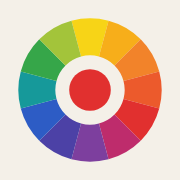
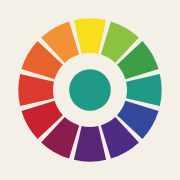
Rehace la rueda como réplica de la rueda Trabi
Disco de color con pestañas que gira bajo un disco blanco con ventanas
(tinte, tono, matiz), etiquetas de armonía y figuras grises en el centro.
Paleta y orden de colores tomados de la rueda física.

Claude-Session: https://claude.ai/code/session_01FmqHNh6WeZmWFELV5fdJzU

diff --git a/index.html b/index.html
@@ -94,22 +94,27 @@ main{max-width:1240px;margin:0 auto;padding:4px clamp(16px,4vw,40px) 40px}
 .wheel-stage{display:flex;flex-direction:column;align-items:center;gap:14px;text-align:center}
 #wheel{width:min(100%,560px);aspect-ratio:1;touch-action:none;cursor:grab;user-select:none;-webkit-user-select:none;display:block}
 #wheel.dragging{cursor:grabbing}
-#wheel:focus-visible{outline:none}
+#wheel:focus,#wheel:focus-visible{outline:none}
 #wheel .focus-ring{fill:none;stroke:transparent;stroke-width:2.5}
 #wheel:focus-visible .focus-ring{stroke:var(--ink)}
 .seg{cursor:pointer}
-.seg path{stroke:var(--bg);stroke-width:2.5;transition:opacity .35s ease}
-.dial-base{fill:var(--card);stroke:var(--line);stroke-width:1.5}
-#dial{transition:transform .55s cubic-bezier(.2,.8,.2,1)}
-#wheel.dragging #dial{transition:none}
-#dial.spin{transition:transform 1.5s cubic-bezier(.12,.85,.18,1)}
-.shape{fill:rgba(31,29,26,.06);stroke:var(--ink);stroke-width:1.6;stroke-linejoin:round}
-.shape.ring{fill:none;stroke-dasharray:3 6;stroke-linecap:round}
-.spoke{stroke:var(--ink);stroke-width:1.4;stroke-dasharray:2 6;stroke-linecap:round;opacity:.5}
-.marker{fill:none;stroke:#fff;stroke-width:6}
-.marker-in{fill:none;stroke:var(--ink);stroke-width:1.6}
+.disc-base{fill:#FDFCF8;stroke:#E3DCCF;stroke-width:1.2}
+#colorDisc{transition:transform .6s cubic-bezier(.2,.8,.2,1)}
+#wheel.dragging #colorDisc{transition:none}
+#colorDisc.spin{transition:transform 1.5s cubic-bezier(.12,.85,.18,1)}
+.ctab{stroke:rgba(0,0,0,.08);stroke-width:1;stroke-linejoin:round}
+.tab-label{font-family:"Inter",system-ui,sans-serif;font-weight:700;letter-spacing:.03em;pointer-events:none}
+.top-disc{fill:#FDFCF8;stroke:#FDFCF8;stroke-width:3;stroke-linejoin:round;fill-rule:evenodd}
+.win-edge{fill:none;stroke:rgba(0,0,0,.18);stroke-width:1;pointer-events:none}
+.win-sep{fill:none;stroke:#2A2826;stroke-width:1.6;pointer-events:none}
+.harm-label{font-family:"Inter",system-ui,sans-serif;font-weight:700;font-size:9.5px;letter-spacing:.07em;fill:#2A2826;pointer-events:none}
+.harm-label .soft{font-weight:500;letter-spacing:.02em}
+.center-base{fill:#fff;stroke:#2A2826;stroke-width:2}
+.tmpl{fill:none;stroke:#8f8f8c;stroke-width:1;stroke-dasharray:3 3;opacity:.4}
+.shape-active{fill:url(#shapeGrad);stroke:#6E6D6A;stroke-width:1;stroke-linejoin:round}
+.arrow{stroke:#1F1D1A;stroke-width:2.2;fill:none}
+.pin{fill:#D2D1CD;stroke:#8A8985;stroke-width:1.2}
 .pointer{fill:var(--ink)}
-#keyDot{stroke:#fff;stroke-width:5;transition:fill .3s}
 .key-info{display:grid;gap:2px}
 .key-name{font-family:"Fraunces",Georgia,serif;font-size:clamp(1.6rem,3vw,2.1rem);line-height:1.1}
 .key-hex{font-variant-numeric:tabular-nums;color:var(--muted);font-size:.9rem;letter-spacing:.04em}
@@ -276,14 +281,25 @@ footer a{color:inherit}
   <section id="view-rueda" class="view" role="tabpanel" aria-labelledby="tab-rueda" tabindex="-1">
     <div class="wheel-layout">
       <div class="wheel-stage">
-        <svg id="wheel" viewBox="-274 -274 548 548" role="slider" tabindex="0"
+        <svg id="wheel" viewBox="-282 -282 564 564" role="slider" tabindex="0"
              aria-label="Rueda cromática. Usá las flechas para girarla."
              aria-valuemin="0" aria-valuemax="359" aria-valuenow="0" aria-valuetext="Amarillo">
-          <circle class="focus-ring" r="268"/>
-          <g id="segments"></g>
-          <circle class="dial-base" r="86"/>
-          <g id="dial"></g>
-          <circle id="keyDot" r="24"/>
+          <defs>
+            <linearGradient id="shapeGrad" x1="0" x2="1" y1="0" y2="0">
+              <stop offset="0" stop-color="#E6E5E2"/><stop offset=".5" stop-color="#BDBCB8"/>
+              <stop offset=".5" stop-color="#9E9D99"/><stop offset="1" stop-color="#CDCCC8"/>
+            </linearGradient>
+            <marker id="arrowHead" viewBox="0 0 10 10" refX="8" refY="5" markerWidth="5" markerHeight="5" orient="auto-start-reverse">
+              <path d="M0 0L10 5L0 10Z" fill="#1F1D1A"/>
+            </marker>
+            <filter id="discShadow" x="-10%" y="-10%" width="120%" height="120%">
+              <feDropShadow dx="0" dy="6" stdDeviation="8" flood-color="#5a4a30" flood-opacity=".14"/>
+            </filter>
+          </defs>
+          <circle class="focus-ring" r="276"/>
+          <circle class="disc-base" r="268" filter="url(#discShadow)"/>
+          <g id="colorDisc"></g>
+          <g id="overlay"></g>
         </svg>
 
         <div class="key-info" aria-live="polite">
@@ -409,8 +425,8 @@ footer a{color:inherit}
 'use strict';
 
 /* ---------- Datos ---------- */
-const ANCHORS = ['#F7D417','#F7AE1A','#F2832A','#EC5A2C','#E1302F','#BE2C6C','#7D3F9E','#4C41A6','#2D5CC5','#16999A','#36A649','#A3C43A'];
-const NAMES = ['Amarillo','Amarillo-naranja','Naranja','Rojo-naranja','Rojo','Rojo-violeta','Violeta','Azul-violeta','Azul','Azul-verde','Verde','Amarillo-verde'];
+const ANCHORS = ['#F7DF1E','#8CC23F','#3D9E48','#1F9A87','#34489C','#4E2C85','#5B2577','#8A1D4E','#C9222F','#DB3A2C','#E8622E','#F29234'];
+const NAMES = ['Amarillo','Amarillo-verde','Verde','Azul-verde','Azul','Azul-violeta','Violeta','Rojo-violeta','Rojo','Rojo-naranja','Naranja','Amarillo-naranja'];
 
 const HARMONIES = {
   complementarios: { label:'Complementarios', offsets:[0,6], desc:'Dos colores opuestos en la rueda. Es el contraste máximo: uno hace brillar al otro. Funciona mejor con uno de protagonista y el otro para acentos.' },
@@ -442,7 +458,7 @@ const store = {
   set(k, v){ try { localStorage.setItem(k, JSON.stringify(v)); } catch(e){} }
 };
 
-const state = { angle:120, harmony:'complementarios', variant:'puro', libre:false, sound:store.get('rc-sound', true) };
+const state = { angle:90, harmony:'complementarios', variant:'puro', libre:false, sound:store.get('rc-sound', true) };
 const reduced = window.matchMedia && window.matchMedia('(prefers-reduced-motion: reduce)').matches;
 const $ = s => document.querySelector(s);
 const mod = (n, m) => ((n % m) + m) % m;
@@ -482,9 +498,9 @@ function hueAt(deg){
 }
 const nameAt = deg => NAMES[Math.round(mod(deg,360)/30) % 12];
 function variantHex(hex, v){
-  if (v === 'tinte') return mixHex(hex, '#FFFFFF', .45);
-  if (v === 'tono') return mixHex(hex, '#8A8A8A', .45);
-  if (v === 'sombra') return mixHex(hex, '#000000', .42);
+  if (v === 'tinte') return mixHex(hex, '#FFFFFF', .5);
+  if (v === 'tono') return mixHex(hex, '#9A9A96', .55);
+  if (v === 'sombra') return mixHex(hex, '#000000', .36);
   return hex;
 }
 const relLum = hex => { const [r,g,b] = hexToRgb(hex).map(toLin); return 0.2126*r + 0.7152*g + 0.0722*b; };
@@ -511,7 +527,7 @@ function describe(hex){
   const deg = nearestHueAngle(hex);
   const idx = Math.round(deg/30) % 12;
   const pure = hexToLab(ANCHORS[idx]);
-  if ([1,2,3].includes(idx) && L < pure[0] - 0.12) return C < 0.08 ? 'Marrón apagado' : 'Marrón';
+  if ([9,10,11].includes(idx) && L < pure[0] - 0.12) return C < 0.08 ? 'Marrón apagado' : 'Marrón';
   let n = NAMES[idx];
   if (L > pure[0] + 0.08) n += ' claro';
   else if (L < pure[0] - 0.08) n += ' oscuro';
@@ -589,37 +605,80 @@ function arc(r1, r2, a1, a2){
   const [x1,y1] = pt(r2,a1), [x2,y2] = pt(r2,a2), [x3,y3] = pt(r1,a2), [x4,y4] = pt(r1,a1);
   return `M${x1} ${y1}A${r2} ${r2} 0 0 1 ${x2} ${y2}L${x3} ${y3}A${r1} ${r1} 0 0 0 ${x4} ${y4}Z`;
 }
-const RINGS = [['puro',206,254],['tinte',166,202],['tono',128,162],['sombra',92,124]];
-const wheel = $('#wheel'), segLayer = $('#segments'), dial = $('#dial'), keyDot = $('#keyDot');
-const segPaths = [];
-for (let i = 0; i < 12; i++){
-  const g = svgEl('g', { class:'seg', 'data-i':i }, segLayer);
-  const rings = {};
-  RINGS.forEach(([k, r1, r2]) => {
-    rings[k] = svgEl('path', { d:arc(r1, r2, i*30-15, i*30+15), fill:variantHex(ANCHORS[i], k) }, g);
-  });
-  segPaths.push(rings);
+const wheel = $('#wheel'), colorDisc = $('#colorDisc'), overlay = $('#overlay');
+const DISC_BG = '#FDFCF8';
+// Disco de color (gira): pestañas con el nombre y, debajo, tinte / tono / matiz de cada color
+(function buildColorDisc(){
+  const defs = wheel.querySelector('defs');
+  for (let i = 0; i < 12; i++){
+    const a = i*30, g = svgEl('g', { class:'seg', 'data-i':i }, colorDisc);
+    svgEl('path', { d:arc(168, 204, a-15, a+15), fill:variantHex(ANCHORS[i], 'tinte') }, g);
+    svgEl('path', { d:arc(133, 168, a-15, a+15), fill:variantHex(ANCHORS[i], 'tono') }, g);
+    svgEl('path', { d:arc(96, 133, a-15, a+15), fill:variantHex(ANCHORS[i], 'sombra') }, g);
+    svgEl('path', { d:arc(229, 263, a-13.6, a+13.6), fill:ANCHORS[i], class:'ctab' }, g);
+    const [x1,y1] = pt(242, a-14), [x2,y2] = pt(242, a+14);
+    svgEl('path', { id:'tabArc'+i, d:`M${x1} ${y1}A242 242 0 0 1 ${x2} ${y2}`, fill:'none' }, defs);
+    const label = NAMES[i].toUpperCase();
+    const t = svgEl('text', { class:'tab-label', fill:textOn(ANCHORS[i]), 'font-size': label.length > 12 ? 10 : 12 }, g);
+    const tp = svgEl('textPath', { href:'#tabArc'+i, startOffset:'50%', 'text-anchor':'middle' }, t);
+    tp.textContent = label;
+  }
+})();
+
+const HARM_LABEL = { complementarios:'COMPLEMENTARIO', analogos:'ANÁLOGO', triada:'TRÍADA', dividido:'DIVISIÓN COMPLEMENTARIA', tetrada:'TÉTRADA', cuadrado:'CUADRADO', mono:'' };
+let labelSeq = 0;
+function curvedLabel(parent, text, a, soft){
+  const bottom = mod(a, 360) > 90 && mod(a, 360) < 270;
+  const r = bottom ? 218 : 209, span = 40;
+  const [x1,y1] = pt(r, bottom ? a+span : a-span), [x2,y2] = pt(r, bottom ? a-span : a+span);
+  const id = 'hl' + (labelSeq++);
+  svgEl('path', { id, d:`M${x1} ${y1}A${r} ${r} 0 0 ${bottom ? 0 : 1} ${x2} ${y2}`, fill:'none' }, parent);
+  const t = svgEl('text', { class:'harm-label' }, parent);
+  const tp = svgEl('textPath', { href:'#'+id, startOffset:'50%', 'text-anchor':'middle' }, t);
+  tp.textContent = text;
+  if (soft){ const s2 = svgEl('tspan', { class:'soft' }, tp); s2.textContent = ' ' + soft; }
 }
 
+// Disco blanco fijo con ventanas, etiquetas y diagrama central (se rearma al cambiar la armonía)
 function buildDial(){
-  dial.innerHTML = '';
+  overlay.innerHTML = '';
   const offs = HARMONIES[state.harmony].offsets;
-  if (offs.length >= 2){
-    const pts = offs.slice().sort((a,b) => a-b).map(o => pt(66, o*30).join(',')).join(' ');
-    svgEl('polygon', { points:pts, class:'shape' }, dial);
+  let d = 'M0 -222A222 222 0 1 1 0 222A222 222 0 1 1 0 -222Z';
+  offs.forEach(o => { d += arc(98, 202, o*30-13, o*30+13); });
+  svgEl('path', { d, class:'top-disc' }, overlay);
+  offs.forEach(o => {
+    const a = o*30;
+    [133, 168].forEach(r => {
+      const [x1,y1] = pt(r, a-12.6), [x2,y2] = pt(r, a+12.6);
+      svgEl('path', { d:`M${x1} ${y1}A${r} ${r} 0 0 1 ${x2} ${y2}`, class:'win-sep' }, overlay);
+    });
+    if (o === 0) curvedLabel(overlay, 'COLOR CLAVE', a, '(color puro)');
+    else curvedLabel(overlay, HARM_LABEL[state.harmony], a);
+  });
+
+  // Centro: plantilla de figuras y la figura activa en gris con flechas
+  svgEl('circle', { r:90, class:'center-base' }, overlay);
+  const poly = (angles, r = 80) => angles.map(x => pt(r, x).join(',')).join(' ');
+  svgEl('polygon', { points:poly([0,120,240]), class:'tmpl' }, overlay);
+  svgEl('polygon', { points:poly([0,60,180,240]), class:'tmpl' }, overlay);
+  svgEl('polygon', { points:poly([0,150,210]), class:'tmpl' }, overlay);
+  const angs = offs.map(o => o*30);
+  if (state.harmony === 'complementarios'){
+    svgEl('polygon', { points:[pt(80,0), pt(16,90), pt(80,180), pt(16,270)].map(p => p.join(',')).join(' '), class:'shape-active' }, overlay);
+  } else if (state.harmony === 'analogos'){
+    svgEl('polygon', { points:['0,0', ...angs.map(x => pt(80, x).join(','))].join(' '), class:'shape-active' }, overlay);
+  } else if (state.harmony === 'mono'){
+    svgEl('circle', { r:70, class:'tmpl', style:'opacity:.7' }, overlay);
   } else {
-    svgEl('circle', { r:62, class:'shape ring' }, dial);
+    svgEl('polygon', { points:poly(angs.slice().sort((x,y) => x-y)), class:'shape-active' }, overlay);
   }
-  offs.forEach(o => {
-    const [x1,y1] = pt(88, o*30), [x2,y2] = pt(212, o*30);
-    svgEl('line', { x1, y1, x2, y2, class:'spoke' }, dial);
+  angs.forEach(x => {
+    const [x2,y2] = pt(76, x);
+    svgEl('line', { x1:0, y1:0, x2, y2, class:'arrow', 'marker-end':'url(#arrowHead)' }, overlay);
   });
-  offs.forEach(o => {
-    const [cx, cy] = pt(230, o*30), r = o === 0 ? 17 : 13;
-    svgEl('circle', { cx, cy, r, class:'marker' }, dial);
-    svgEl('circle', { cx, cy, r, class:'marker-in' }, dial);
-  });
-  svgEl('path', { d:'M-10 -273L10 -273L0 -257Z', class:'pointer' }, dial);
+  svgEl('circle', { r:6.5, class:'pin' }, overlay);
+  svgEl('circle', { r:2.6, fill:'#fff' }, overlay);
+  svgEl('path', { d:'M-9 -281L9 -281L0 -268Z', class:'pointer' }, overlay);
 }
 
 function getPalette(){
@@ -645,18 +704,8 @@ function getPalette(){
 let currentPalette = [];
 function render(){
   const key = mod(state.angle, 360);
-  const h = HARMONIES[state.harmony];
-  const selected = new Set(h.offsets.map(o => mod(Math.round((key + o*30)/30), 12)));
-  segPaths.forEach((rings, i) => {
-    for (const k in rings){
-      let op = 0.26;
-      if (selected.has(i)) op = (state.harmony === 'mono' || k === state.variant) ? 1 : 0.55;
-      rings[k].style.opacity = op;
-    }
-  });
-  dial.style.transform = `rotate(${state.angle}deg)`;
+  colorDisc.style.transform = `rotate(${-state.angle}deg)`;
   const keyHex = hueAt(key);
-  keyDot.setAttribute('fill', keyHex);
   wheel.setAttribute('aria-valuenow', Math.round(key));
   wheel.setAttribute('aria-valuetext', nameAt(key));
   $('#keyName').textContent = nameAt(key);
@@ -729,7 +778,7 @@ wheel.addEventListener('pointermove', e => {
   drag.moved = true;
   wheel.classList.add('dragging');
   const a = pointerAngle(e);
-  state.angle += mod(a - drag.last + 180, 360) - 180;
+  state.angle -= mod(a - drag.last + 180, 360) - 180;
   drag.last = a;
   const idx = keyIndex();
   if (idx !== drag.idx){ drag.idx = idx; tick(); }
@@ -761,12 +810,12 @@ function step(dir){
   tick(); render();
 }
 wheel.addEventListener('keydown', e => {
-  if (e.key === 'ArrowRight' || e.key === 'ArrowUp'){ e.preventDefault(); step(1); }
-  else if (e.key === 'ArrowLeft' || e.key === 'ArrowDown'){ e.preventDefault(); step(-1); }
+  if (e.key === 'ArrowRight' || e.key === 'ArrowUp'){ e.preventDefault(); step(-1); }
+  else if (e.key === 'ArrowLeft' || e.key === 'ArrowDown'){ e.preventDefault(); step(1); }
   else if (e.key === 'Home'){ e.preventDefault(); goTo(0); }
 });
-$('#prevBtn').addEventListener('click', () => step(-1));
-$('#nextBtn').addEventListener('click', () => step(1));
+$('#prevBtn').addEventListener('click', () => step(1));
+$('#nextBtn').addEventListener('click', () => step(-1));
 $('#libre').addEventListener('change', e => {
   state.libre = e.target.checked;
   if (!state.libre){ state.angle = Math.round(state.angle/30)*30; render(); }
@@ -775,12 +824,12 @@ $('#libre').addEventListener('change', e => {
 $('#surprise').addEventListener('click', () => {
   const keys = Object.keys(HARMONIES).filter(k => k !== state.harmony);
   setHarmony(keys[Math.floor(Math.random()*keys.length)], false);
-  dial.classList.add('spin');
+  colorDisc.classList.add('spin');
   const extra = state.libre ? Math.random()*360 : Math.floor(Math.random()*12)*30;
   state.angle = Math.round(state.angle/30)*30 + 720 + extra;
   whoosh();
   render();
-  setTimeout(() => { dial.classList.remove('spin'); tick(); }, reduced ? 0 : 1500);
+  setTimeout(() => { colorDisc.classList.remove('spin'); tick(); }, reduced ? 0 : 1500);
 });
 
 /* Armonías y variantes */
